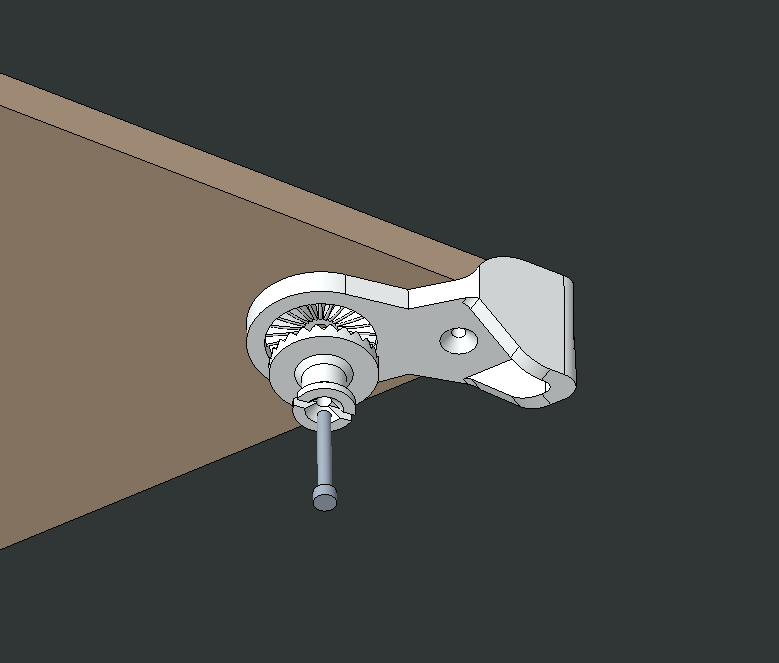
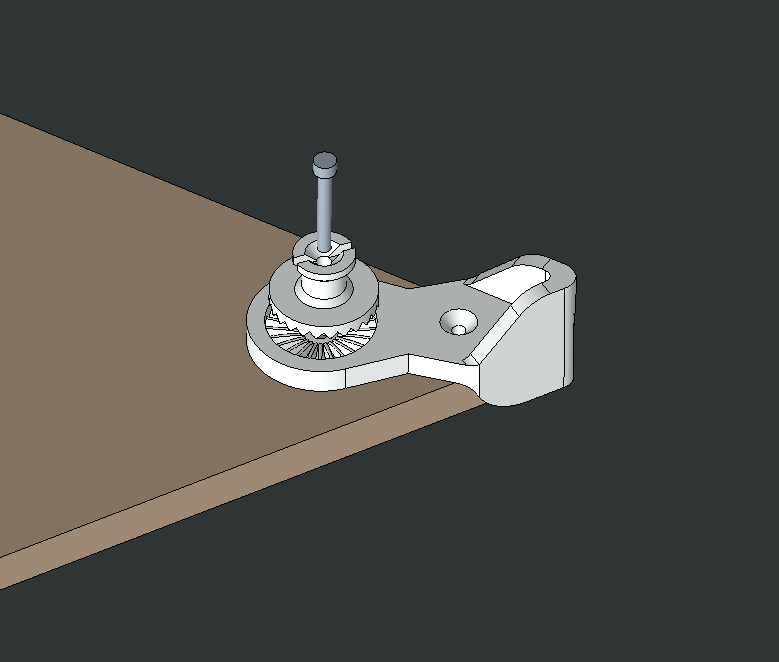
pre-footerchange

Changed region(s): [[0.0, 0.0906, 0.7394, 0.9063]]

diff --git a/projects/project-tensegrity_table.html b/projects/project-tensegrity_table.html
@@ -88,7 +88,7 @@
     </div>
 
     <div class="photo">
-      <img class="image tensoner-creo" src="../assets/Projects/floating-table/Tensioning-asembled.PNG" alt="Image of a Cad model of the tensioner.">
+      <img class="image tensoner-creo" src="../assets/Projects/floating-table/Tensioning-exploded.PNG" alt="Image of a Cad model of the tensioner.">
       <h3 class="phototag">Cad model of the tensioner.</h3>
     </div>
 
@@ -126,9 +126,9 @@
     </div>
 
     <div class= "words">
-      </p>
-      <p>After the part is imported, it needs textures and colors assigned to each part. At this stage, I found it is useful to group all of the parts that are the same material. That way when you create the texture, it is applied to all of them at once. In the image above, I haven’t set their real color yet but I wanted to make sure I didn’t forget them, so I quickly make them purple.
-        <br>
+        <p>After the part is imported, it needs textures and colors assigned to each part. At this stage, I found it is useful to group all of the parts that are the same material. That way when you create the texture, it is applied to all of them at once. In the image above, I haven’t set their real color yet but I wanted to make sure I didn’t forget them, so I quickly make them purple.
+        </p>
+          <br>
     </div>
 
     <div class="photo">

diff --git a/index.html b/index.html
@@ -77,8 +77,9 @@
         <h2>Contact me</h2>
         <nav class="contact">
           <ul class="contactUl">
-            <li><a href="#" target="_blank">gaetanbfoisy@gmail.com</a></li>
+            <li><a href="mailto:gaetanbfoisy@gmail.com" target="_blank">gaetanbfoisy@gmail.com</a></li>
             <li><a href="#">(315)262-8024</a></li>
+            <li><a href="https://www.linkedin.com/in/gaetanbfoisy/" target="_blank">LinkedIn</a></li>
           </ul>
         </nav>
       </div>

diff --git a/projects.html b/projects.html
@@ -116,7 +116,7 @@
         <h2>Contact me</h2>
         <nav class="contact">
           <ul class="contactUl">
-            <li><a href="#" target="_blank">gaetanbfoisy@gmail.com</a></li>
+            <li><a href="mailto:gaetanbfoisy@gmail.com" target="_blank">gaetanbfoisy@gmail.com</a></li>
             <li><a href="#">(315)262-8024</a></li>
           </ul>
         </nav>

diff --git a/about.html b/about.html
@@ -79,7 +79,7 @@
           <br>
 
           <h2>Q3: What is your favorite color?</h2>
-          <p>A: Green. Can you tell?
+          <p>A: Purple. Or green. And red is pretty cool too.
           </p>
           <br>
 

diff --git a/styles/index-footer.css b/styles/index-footer.css
@@ -58,7 +58,6 @@ element{
 
  footer h2{
    font-size: 35px;
-
    width: 200px;
  }
 

diff --git a/styles/projects.css b/styles/projects.css
@@ -1,4 +1,4 @@
-/*
+ /*
 
 CSS LAYOUT
 element{
